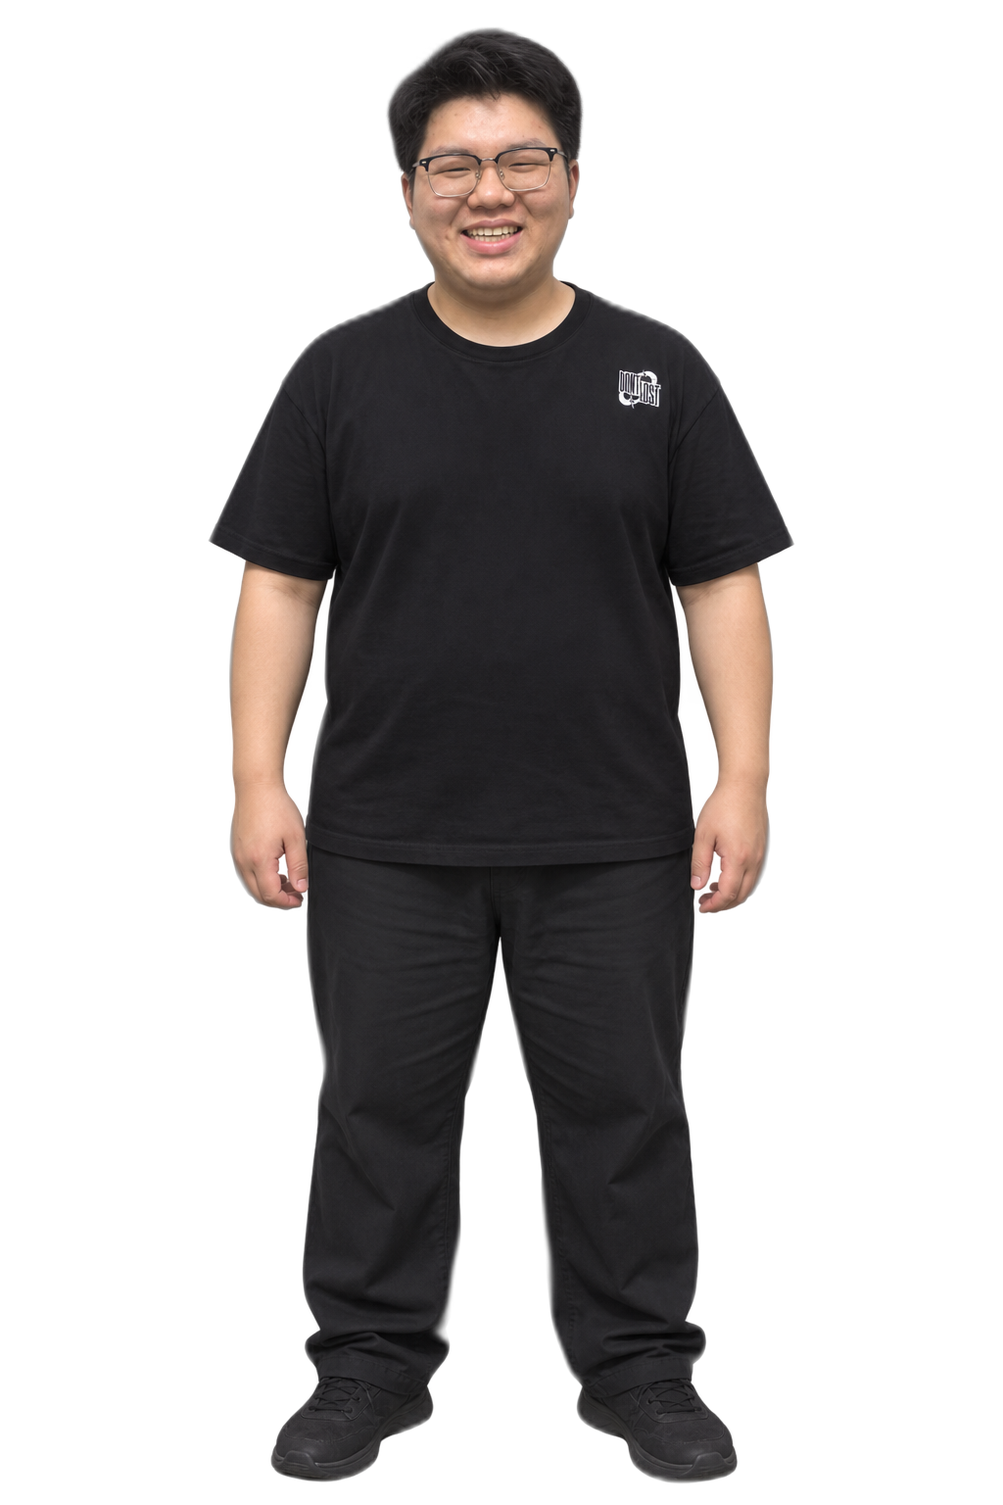
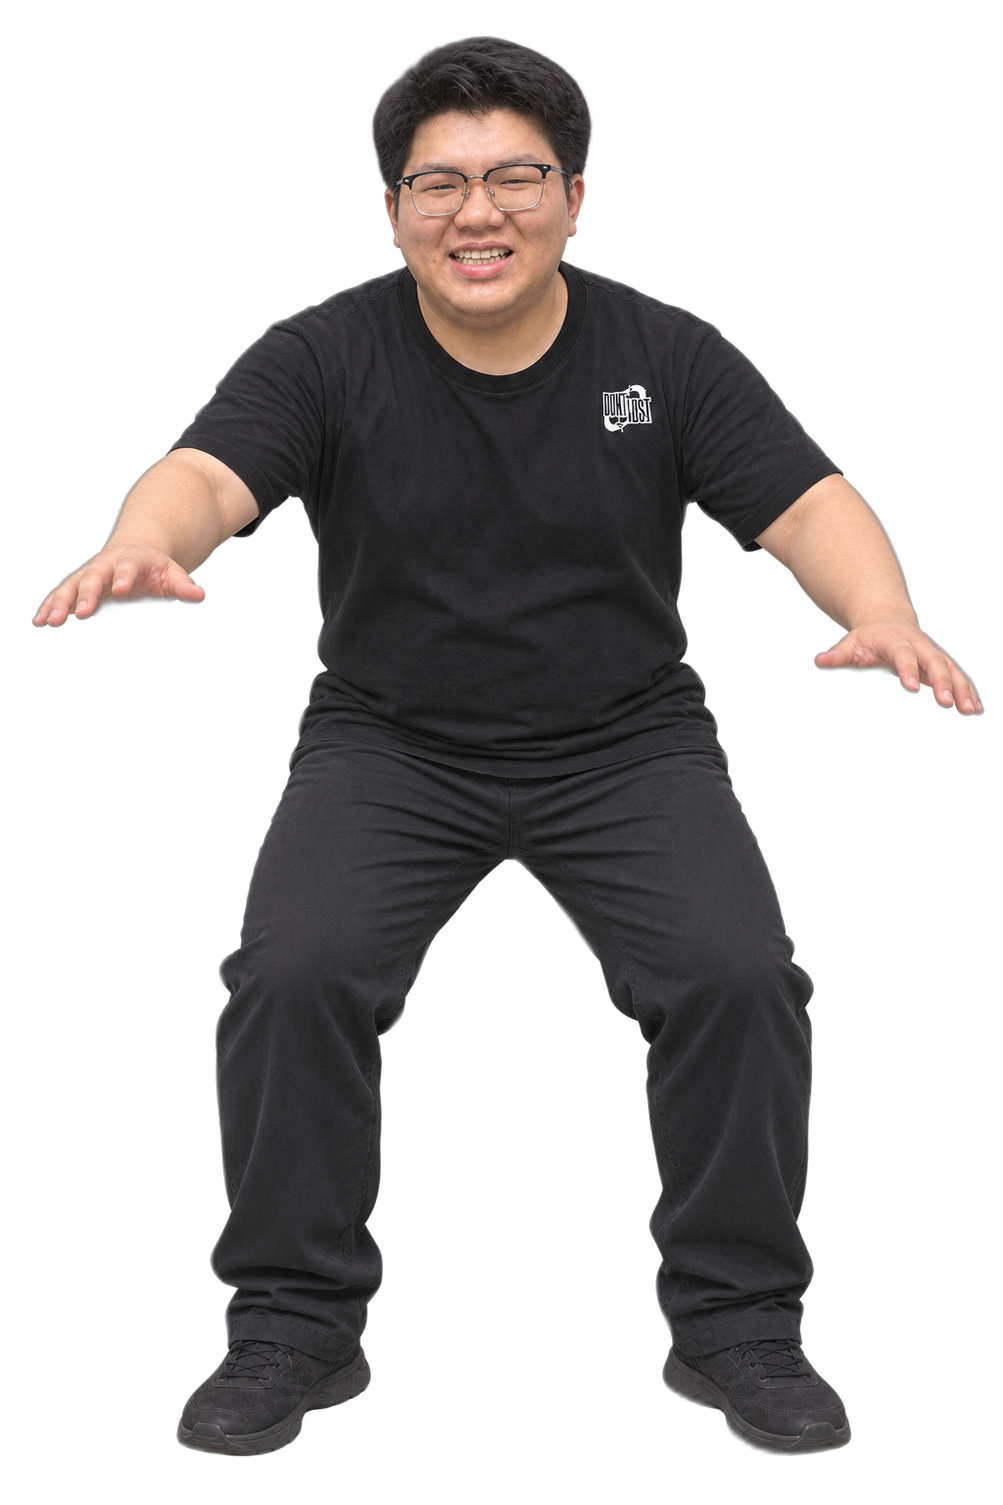
Expand photo motion previews and document release gaps

Changed region(s): [[0.0312, 0.0, 1.0, 1.0], [0.5938, 0.25, 0.6562, 0.2812]]

diff --git a/tools/assets/render_action_strip.py b/tools/assets/render_action_strip.py
@@ -1,0 +1,70 @@
+"""Render an action on the current WPF stage for visual frame review.
+
+This review tool uses the manifest's per-frame height and offset. It does not
+modify runtime PNGs and intentionally keeps repeated poses visible.
+"""
+
+from __future__ import annotations
+
+import argparse
+import json
+from pathlib import Path
+
+from PIL import Image, ImageDraw
+
+
+ROOT = Path(__file__).resolve().parents[2]
+ASSETS = ROOT / "src" / "PangBaoBaoPet.Desktop" / "Assets"
+STAGE = (430, 490)
+
+
+def main() -> None:
+    parser = argparse.ArgumentParser(description=__doc__)
+    parser.add_argument("--skin", required=True)
+    parser.add_argument("--action", required=True)
+    parser.add_argument("--output", type=Path, required=True)
+    parser.add_argument("--background", choices=("gray", "white", "black"), default="gray")
+    args = parser.parse_args()
+
+    actions = json.loads((ASSETS / "actions.json").read_text(encoding="utf-8"))
+    action = next((entry for entry in actions if entry.get("skinId", "pajamas") == args.skin
+                   and entry["id"] == args.action), None)
+    if action is None:
+        parser.error("unknown skin/action")
+
+    count = action["frames"]
+    heights = action.get("frameDisplayHeights", [action.get("displayHeight", 362)] * count)
+    offsets = action.get("frameOffsets", [[0, 0]] * count)
+    directory = ASSETS / action.get("assetDirectory", action["id"])
+    frames = sorted(directory.glob("frame_*.png"))
+    if len(frames) != count:
+        parser.error("manifest and file frame counts differ")
+
+    backgrounds = {"gray": (115, 115, 115, 255), "white": (255, 255, 255, 255),
+                   "black": (15, 15, 15, 255)}
+    cols = min(count, 5)
+    rows = (count + cols - 1) // cols
+    contact = Image.new("RGBA", (cols * STAGE[0], rows * STAGE[1]), backgrounds[args.background])
+    draw = ImageDraw.Draw(contact)
+    for index, path in enumerate(frames):
+        with Image.open(path) as opened:
+            frame = opened.convert("RGBA")
+        height = round(heights[index])
+        width = round(height * frame.width / frame.height)
+        rendered = frame.resize((width, height), Image.Resampling.LANCZOS)
+        offset_x, offset_y = offsets[index]
+        x = index % cols * STAGE[0] + round((STAGE[0] - width) / 2 + offset_x)
+        y = index // cols * STAGE[1] + round(STAGE[1] - 18 - height + offset_y)
+        contact.alpha_composite(rendered, (x, y))
+        draw.text((index % cols * STAGE[0] + 8, index // cols * STAGE[1] + 8),
+                  f"{index + 1:02d}  {heights[index]} DIP", fill=(255, 235, 40, 255),
+                  stroke_width=1, stroke_fill=(0, 0, 0, 255))
+
+    output = args.output.resolve()
+    output.parent.mkdir(parents=True, exist_ok=True)
+    contact.convert("RGB").save(output)
+    print(output)
+
+
+if __name__ == "__main__":
+    main()

diff --git a/tools/assets/validate_assets.py b/tools/assets/validate_assets.py
@@ -21,6 +21,11 @@ MIN_RELEASE_FRAMES = {
     "sidebend": 12, "long_jump": 50, "high_jump": 40, "pull_up": 90,
     "push_up": 90, "street_dance": 160,
 }
+MIN_RELEASE_DISTINCT_FILES = {
+    "stretch": 6, "chest": 6, "bend": 6, "twist": 6, "tiptoe": 6,
+    "sidebend": 6, "long_jump": 35, "high_jump": 30, "pull_up": 55,
+    "push_up": 45, "street_dance": 120,
+}
 
 
 def png_size(path: Path) -> tuple[int, int]:
@@ -72,6 +77,11 @@ def main() -> int:
             continue
         if args.release and key[1] in MIN_RELEASE_FRAMES and len(frames) < MIN_RELEASE_FRAMES[key[1]]:
             failures.append(f"incomplete action: {key}, {len(frames)} < {MIN_RELEASE_FRAMES[key[1]]} frames")
+        if args.release and key[1] in MIN_RELEASE_DISTINCT_FILES:
+            distinct = len({hashlib.sha256(frame.read_bytes()).digest() for frame in frames})
+            minimum = MIN_RELEASE_DISTINCT_FILES[key[1]]
+            if distinct < minimum:
+                failures.append(f"repeated-frame action: {key}, {distinct} < {minimum} distinct PNGs")
         if args.release and "预览" in action.get("name", ""):
             failures.append(f"preview action in release: {key}")
         durations = action.get("durationsMs")
@@ -109,7 +119,7 @@ def main() -> int:
                 failures.append(f"missing release action: {skin}/{action_id}")
     print(f"Validated {len(actions)} action entries. Failures: {len(failures)}. Below 2 px/DIP: {len(low_density)}.")
     for item in failures:
-        label = "RELEASE" if item.startswith(("missing release action", "incomplete action", "preview action")) else "ERROR"
+        label = "RELEASE" if item.startswith(("missing release action", "incomplete action", "preview action", "repeated-frame action")) else "ERROR"
         print(label, item)
     for action_label, count in sorted(low_density_by_action.items()):
         print("DENSITY", action_label, count, "frames")

diff --git a/docs/0.5-实施记录.md b/docs/0.5-实施记录.md
@@ -10,19 +10,19 @@
 | P1 整理 | 增加四项目解决方案；WPF、核心规则、对话基础设施、测试分目录；旧离线脚本移到 `archive/v0.3-tools/` | `tools/build.ps1` 零警告；`tools/test.ps1` 通过 |
 | P2 母版候选 | 生成睡衣与黑 T 恤全身候选，并在右键菜单接入切换；一次性动作结束后换衣 | 两套候选均 1024×1536 RGBA；用户确认“基本像，可继续”，已冻结修订号和哈希；边缘未通过最终验收 |
 | P3 播放器小步改造 | 动作按皮肤筛选，支持逐帧位移及头／嘴锚点；按需解码 PNG、128 MiB LRU 缓存且并行预读最多两帧；拖动可中断一次性表演并保留未完成奖励，运动中摸头先冒爱心、恢复后再尝试娇羞 | 编译通过；未完成固定舞台、接触锚点、跨屏与完整性能基准 |
-| P4 动作候选 | 黑 T 恤站立、五帧单节伸展、五帧点击娇羞、跳高和跳远的少量关键姿势可在程序里预览；引体、俯卧撑、街舞各做一张技术小样 | 候选尚非完整动作；引体背景透明层失败；睡衣新版运动动作尚未制作 |
+| P4 动作候选 | 黑 T 恤与睡衣各有九帧单节写真伸展；黑 T 恤五帧点击娇羞、六帧原地跳高及六帧向右跳远可预览；引体、俯卧撑、街舞各仅一张技术小样 | 伸展各只有五张不同姿势；跳跃各只有五张不同姿势；其它广播操、双服装覆盖、引体道具分层和两次俯卧撑尚未完成，详见[本次逐帧核查](qa/v0.5/action-progress-2026-09-25.md) |
 | P5 对话基础 | 可填写完整兼容接口地址、模型与密钥；手动聊天、最近六轮内存上下文、测试连接、人设编辑与恢复默认；自动回复单独启用并受持久化预算限制；密钥 DPAPI 加密；桌宠下方常驻收起图标，展开为可收起的对话框 | 本地模拟 chat completions 契约、次数上限与 429 冷却测试通过；隔离配置下实测展开与本地回复；未接用户真实 API |
 | P6 初步封装 | `tools/package.ps1` 可生成依赖 .NET 8 Runtime 的 Windows ZIP，`-SelfContained` 为自包含选项 | 仅检查包结构；安装、双皮肤视觉、DPI 和完整动作验收未通过 |
 
[2 lines of base64/hex data omitted]
 
 ## 视觉检查与明确缺口
 
-`python tools/assets/validate_assets.py` 检查到 18 个动作条目、0 个结构错误、**90 帧低于 2 源像素／显示 DIP**。主要集中在睡衣版旧广播操和互动动作。`--release` 还报 25 项动作覆盖／最少帧数／预览命名缺口；正式候选打包会因此失败。不能用文件放大或复制帧来冒充清晰度修复。
+`python tools/assets/validate_assets.py` 检查到 18 个动作条目、0 个结构错误、**72 帧低于 2 源像素／显示 DIP**。主要集中在睡衣版旧广播操和互动动作。`--release` 报 31 项动作覆盖／最少帧数／不同文件数／预览命名缺口；正式候选打包会因此失败。不能用文件放大或复制帧来冒充清晰度修复。
 
-用户已看过黑 T 恤与睡衣站立截图，并确认“基本像，可继续”；这只通过人物身份方向的制作门槛。两张图片写入 `art/masters/character.json`，修订号 `pbb-photo-05-approved`，校验脚本逐个核对文件哈希。跳高／跳远目前各仅 5 张关键姿势，缺少起势、发力、落地缓冲的充分过渡，也未做桌面原尺寸逐帧验收。引体候选的单杠与灰色背景混成同一图层，不符合独立道具要求；俯卧撑候选姿势尚缺上下往复，街舞候选只有一张 Windmill 姿势，不能称作完整街舞。这三张均只存于 Git 忽略的 `art/candidates/black-tee/`，没有进入发布菜单。
+用户已看过黑 T 恤与睡衣站立截图，并确认“基本像，可继续”；这只通过人物身份方向的制作门槛。两张图片写入 `art/masters/character.json`，修订号 `pbb-photo-05-approved`，校验脚本逐个核对文件哈希。跳高／跳远补了发力与落地缓冲，目前各六个运行帧、五张不同画面，仍远少于规划的 40／50 张，也未做桌面原尺寸连续播放验收。引体候选的单杠与灰色背景混成同一图层，不符合独立道具要求；俯卧撑候选姿势尚缺上下往复，街舞候选只有一张 Windmill 姿势，不能称作完整街舞。这三张均只存于 Git 忽略的 `art/candidates/black-tee/`，没有进入发布菜单。
 
-已从 0.5 预览 ZIP 启动两个隔离配置的进程，用 Win32 `PrintWindow` 分别捕获 [黑 T 恤站立](qa/v0.5/runtime-black.png) 与 [睡衣站立](qa/v0.5/runtime-pajamas.png)。两者窗口均为 538×613 物理像素，人物能够出现且衣服没有交叉；截图背景呈黑色，不能据此判定白／灰底的透明边缘质量。黑 T 恤站立运行约 5 秒时进程工作集约 230.5 MiB（当前机器、单次采样，仅作基线）；复杂动作峰值和换帧 P95 尚未测。运行进程在捕获后已关闭，未改用户的日常设置。随后分别生成两套服装的伸展举臂姿势候选，均保留于被忽略的 `art/candidates/`，尚未接入正式动作。
+已从早期 0.5 预览 ZIP 启动两个隔离配置的进程，用 Win32 `PrintWindow` 分别捕获 [黑 T 恤站立](qa/v0.5/runtime-black.png) 与 [睡衣站立](qa/v0.5/runtime-pajamas.png)。两者窗口均为 538×613 物理像素，人物能够出现且衣服没有交叉；截图背景呈黑色，不能据此判定白／灰底的透明边缘质量。黑 T 恤站立运行约 5 秒时进程工作集约 230.5 MiB（当前机器、单次采样，仅作基线）；复杂动作峰值和换帧 P95 尚未测。运行进程在捕获后已关闭，未改用户的日常设置。当时伸展举臂姿势还只是 Git 忽略目录里的候选；本轮已筛选后接入运行帧。
 
 本次使用内置 ImageGen 生成／编辑 1024×1536 黑 T 恤站立、睡衣站立，以及黑 T 恤跳跃、俯卧撑、引体和街舞关键姿势。各次都传入照片或已生成母版，提示明确锁定发型、眼镜、脸形、体型、正常手臂长度、服装、写实风格和透明背景；动作提示分别约束屈膝、腾空、握杠、双手脚尖接地与 Windmill 支撑。一次针对黑 T 恤站立图的 ImageGen 透明边缘修复几乎没有改变 alpha 分布，不能算清边成功。候选原图与提示意图可从 `art/masters/`、`art/candidates/` 和本记录追溯；私有参考照不进入 Git 和 ZIP。
 
@@ -31,6 +31,8 @@
 已用本机现有 RIFE v4.6 对黑 T 恤站立→屈膝做一次补帧小样。输出为 1024×1536 RGB，不保留透明通道，因此没有入包；工具、输入与输出哈希、验证边界见 [RIFE 小样记录](qa/v0.5/rife-small-sample.md)。
 
 2026-09-25 继续完成桌宠下方的收起式 API 对话框，并用 rembg 人像模型处理两套站立图、黑 T 恤跳跃帧及五帧黑 T 恤点击娇羞预览；新增五帧黑 T 恤单节伸展关键姿势预览。隔离配置的程序实测、白／灰／黑背景并列图、伸展帧尺度校准和当前 ZIP 审计见 [对话框与人像边缘小样核查](qa/v0.5/chat-dock-matting.md)。批准母版哈希没有改变。处理后的边缘比原候选收敛，但不宣称整套动作已经过视觉验收。
+
+本轮继续把两套服装的伸展扩为九帧关键姿势预览，为跳高补蹬地与落地，为跳远制作独立的向右跳三阶段。逐帧排版、透明候选哈希、RIFE 失败小样及发布缺口见 [动作补帧与尺度检查](qa/v0.5/action-progress-2026-09-25.md)。新写的 `render_action_strip.py` 能按运行清单中的逐帧高度和偏移渲染 430×490 DIP 灰／白／黑背景检查图；发布检查增加不同 PNG 数量门槛，复制帧不会被误计为新画面。构建、规则测试与普通素材结构检查通过；真实桌面连续播放、不同 DPI 和全部动作的外貌验收仍待做。
 
 | 母版候选 | SHA-256 |
 | --- | --- |
@@ -48,7 +50,7 @@
 ## 后续验收顺序
 
 1. 两套人物母版已获得“基本像，可继续”反馈；后续逐动作仍需外貌复核。保留睡衣、黑 T 恤切换，明确鞋／下半身属于照片不足处的设计补全。
-2. 继续稳定人像抠图、同人物与同尺度流程；黑 T 恤已有五帧娇羞和五帧伸展关键姿势预览，仍需补足有效过渡并做原尺寸逐帧验收；俯卧撑两次、街舞 Windmill 连续片段仍未完成。
+2. 继续稳定人像抠图、同人物与同尺度流程；两套服装伸展已有九帧、黑 T 恤娇羞五帧，跳高／跳远各六帧，仍需补足有效运动画面并做原尺寸连续播放验收；俯卧撑两次、街舞 Windmill 连续片段仍未完成。
 3. 完成固定舞台坐标、根位移、头／嘴／接触锚点、道具独立层与空间预检，记录两套皮肤下逐动作清晰度和接地结果。
 4. 重制旧广播操、娇羞、飞吻、打滚，再完成五类运动，双服装分别过完整动作验收。`--strict` 归零后再做 0.5 Release。
 5. 自动 API 回复预算与限流已有模拟测试；继续做用户真实服务测试，以及桌面点击、DPI、多显示器、干净安装、工作集与帧提交指标记录。
@@ -64,4 +66,4 @@ python .\tools\assets\validate_assets.py --release
 .\tools\package.ps1
 ```
 
-前三项当前分别为构建成功、规则与模拟 API 测试通过、结构检查通过但报告 90 帧清晰度不足；严格清晰度与发布门槛均预期失败。`package.ps1 -ReleaseCandidate` 会先执行发布素材门槛与测试；普通打包成功只表示可生成预览 ZIP，不表示 0.5 视觉完成。
+前三项当前分别为构建成功、规则与模拟 API 测试通过、结构检查通过但报告 72 帧清晰度不足；严格清晰度与发布门槛均预期失败。`package.ps1 -ReleaseCandidate` 会先执行发布素材门槛与测试；普通打包成功只表示可生成预览 ZIP，不表示 0.5 视觉完成。

diff --git a/docs/qa/v0.5/action-progress-2026-09-25.md b/docs/qa/v0.5/action-progress-2026-09-25.md
@@ -1,0 +1,40 @@
+# 0.5 动作补帧与尺度检查（2026-09-25）
+
+状态：**可运行的关键姿势预览，未通过正式动作验收**。本记录对应工作区素材；公开 GitHub Release 仍为 0.3。批准的人物母版 `pbb-photo-05-approved` 没有改动，用户之前确认的外貌方向为“基本像，可继续”。原始参考照片、未采用的生成候选与制作缓存留在 Git 忽略目录。
+
+## 本次接入
+
+| 动作与服装 | 当前运行帧 | 不同 PNG | 新增的真实姿势 | 逐帧检查 |
+| --- | ---: | ---: | --- | --- |
+| 睡衣伸展 | 9 | 5 | 低位斜伸、水平平举、浅上举、充分上举 | [灰底逐帧排版](stretch-pajamas-9frames-gray.png) |
+| 黑 T 伸展 | 9 | 5 | 同上 | [灰底逐帧排版](stretch-black-9frames-gray.png) |
+| 黑 T 原地跳高 | 6 | 5 | 加入踮起蹬地、屈膝落地，原有预蹲与腾空保留 | [灰底逐帧排版](high-jump-black-6frames-gray.png) |
+| 黑 T 立定跳远 | 6 | 5 | 向右蹬地、收腿腾空、屈膝落地分别制作；落点保留 85 DIP 位移 | [灰底逐帧排版](long-jump-black-6frames-gray.png) |
+
+伸展顺序是站立→低位斜伸→平举→浅上举→充分上举→原路收势→站立，回程复用同一姿势；这不是九张不同的画。跳高与跳远从原先共用正面腾空姿势，改为不同的运动姿态。跳远最后一帧有 85 DIP 水平位移，动作结束后窗口移至落点再恢复日常动作，避免人物弹回起点。
+
+上述排版按当前 WPF 的 430×490 DIP 窗口、底边 18 DIP、各帧 `frameDisplayHeights` 与 `frameOffsets` 渲染，供比较头、脚和边界。它不能代替真实显示器 DPI、桌面透明窗口和连续播放验收。九帧伸展的人物尺度与脚底在灰底检查图中基本一致；手势转场仍有跳切，衣纹和表情也会随生成姿势变化。跳高和跳远只有五种不同画面，不能达到规划中的 40／50 张有效运动帧。
+
+另存白底与黑底逐帧检查：[黑 T 伸展白底](black-tee-stretch-white.png)／[黑底](black-tee-stretch-black.png)、[睡衣伸展白底](pajamas-stretch-white.png)／[黑底](pajamas-stretch-black.png)、[跳高白底](black-tee-high_jump-white.png)／[黑底](black-tee-high_jump-black.png)、[跳远白底](black-tee-long_jump-white.png)／[黑底](black-tee-long_jump-black.png)。本轮人工检查未见先前 RIFE 试验中的大块白色残留；发丝和手边仍需实际桌面分辨率复核。
+
+## 来源、抠边与取舍
+
+新姿势由内置 ImageGen 参考已批准母版和相邻姿势生成，1024×1536；制作中明确锁定发型、眼镜、脸形、体型、正常手臂长度和两套服装。成熟的 `rembg 2.0.85` 人像模型 `u2net_human_seg` 在隔离环境中输出透明候选，原始母版未覆盖。用于运行资产的关键新增透明候选哈希如下：
+
+| 候选（Git 忽略目录 `art/candidates/`） | SHA-256 |
+| --- | --- |
[7 lines of base64/hex data omitted]
+
+前一轮接受的低位、平举和充分上举候选也进入伸展；其文件保存在相应的 `art/candidates/`。黑 T 深色上举再次生成的一张候选与最终姿势几乎相同，未使用。现有 RIFE v4.6 对标准化的黑 T 伸展五帧试作了 20 帧 RGB 与 alpha 补帧；检查图的第 3、13 帧出现手臂消失和白色残留，整组试验留在忽略的 `work/stretch-rife-trial/`，**没有进入运行资产**。像素插值不能充当人物姿势补画。
+
+## 校验结果与下一步门槛
+
+`python tools/assets/validate_assets.py`：18 个动作条目，结构错误 0，72 帧仍低于 2 源像素／显示 DIP；这些低密度帧主要属于睡衣旧广播操及互动动作。`--release`：31 项失败，包含缺失的双服装动作、帧数不足、不同画面不足和“预览”动作。校验器现在按 PNG 哈希计算最低不同文件数，防止简单复制帧通过发布门槛；不同哈希也不能代替人工的动作质量判断。`tools/test.ps1` 中的规则和模拟 API 测试通过。
+
+后续仍需给两套服装重制扩胸、体前屈、转体、踮脚、侧弯与互动动作，给跳跃补运动中间姿势，并完成引体向上道具分层、俯卧撑接地往复、街舞 Windmill 连续动作。大幅水平／倒地动作还需按规划完成固定宽舞台和空间预检。正式发布前应在桌面透明窗口、白／灰／黑背景和不同 DPI 下逐帧复核。

diff --git a/README.md b/README.md
@@ -24,11 +24,11 @@
 
 ### 0.5 开发预览里的服装和对话
 
-右键 **「服装」** 可在印花睡衣与黑 T 恤之间切换。当前若在播一次性动作，切换会等动作结束后生效。黑 T 恤下提供站立、单节伸展、点击娇羞、跳高与跳远的关键姿势预览；睡衣仍以广播体操为主。两套服装的全部动作尚未达到相同覆盖度和清晰度，因此 0.5 还不是正式发布。
+右键 **「服装」** 可在印花睡衣与黑 T 恤之间切换。当前若在播一次性动作，切换会等动作结束后生效。两套服装现在都有九帧写真伸展预览；黑 T 恤另有点击娇羞、六帧跳高与六帧向右跳远预览。伸展仅含五张不同关键姿势，跳跃也尚缺连续运动帧；引体向上、俯卧撑、街舞尚未进入运行菜单。0.5 仍是开发预览，逐帧检查见 [实施记录](docs/0.5-实施记录.md)。
 
 桌宠下方的 **💬 图标** 可展开对话框，直接发送消息、设置兼容 chat completions 的完整 HTTPS 端点、模型和密钥，也可编辑独立人设。点击「−」收起；聊天闲置 2 分钟、配置页闲置 5 分钟会自动缩回图标。屏幕下方空间不足时，对话框会优先挪动桌宠，仍放不下就贴在侧边。密钥使用 Windows 当前用户 DPAPI 加密保存在本机；未配置外部服务时使用本地台词。默认只在你手动发送或测试连接时调用外部服务；你也可以单独开启有次数上限的自动气泡回复。程序不会上传参考照片或屏幕内容。接口对不同供应商的兼容范围须用你填写的真实 API 再测。
 
-### 他的日程安排
+### 他的日程安排（公开 0.3 版）
 
 | 节目 | 播放帧 | 桌面观察报告 |
 | :--- | ---: | :--- |
@@ -49,7 +49,7 @@
   <img src="docs/qa/v03-tiptoe.webp" width="300" alt="0.3 踮脚动作循环预览" />
 </p>
 
-这三节从 0.2 的离线 RIFE 补帧中挑选过渡姿势，给起势、到位和收势分别设定停留时间。原来的 24 FPS 图仍留在仓库中作对照；运行时不调用 RIFE。少数人物纹理仍可能随姿势变化，欢迎先看预览再决定是否升级。
+公开 0.3 版的这三节从 0.2 的离线 RIFE 补帧中挑选过渡姿势，给起势、到位和收势分别设定停留时间。当前 0.5 工作区把默认伸展替换成两套服装的九帧写真关键姿势；转体、踮脚和其它广播操仍沿用旧版素材。运行时不调用 RIFE，九帧也不等于九张不同姿势。
 
 ## 摸头会怎样
 

diff --git a/docs/安装说明.md b/docs/安装说明.md
@@ -21,7 +21,7 @@
 - 拖动人物：改变桌面位置。有效点击和拖动分别增加好感度，连点有冷却和每分钟上限。
 - 好感度到 30 首次触发飞吻，到 70 首次触发打滚。特殊动作在当前广播操结束后接入，完成后回到此前模式。
 - 右键：查看好感度、重置进度、预览特殊动作，或调整整套／单节动作、播放速度、缩放和置顶。
-- 0.5 本地预览：右键「服装」切换印花睡衣或黑 T 恤；当前动作播放完再换。黑 T 恤菜单可单节循环伸展，娇羞、伸展、跳远、跳高仍是关键姿势预览。
+- 0.5 本地预览：右键「服装」切换印花睡衣或黑 T 恤；当前动作播放完再换。两套服装都能单节循环九帧写真伸展；黑 T 恤还有娇羞、六帧跳远和六帧跳高关键姿势预览。引体向上、俯卧撑、街舞仍未接入菜单。
 
 ## 气泡与设置
 
